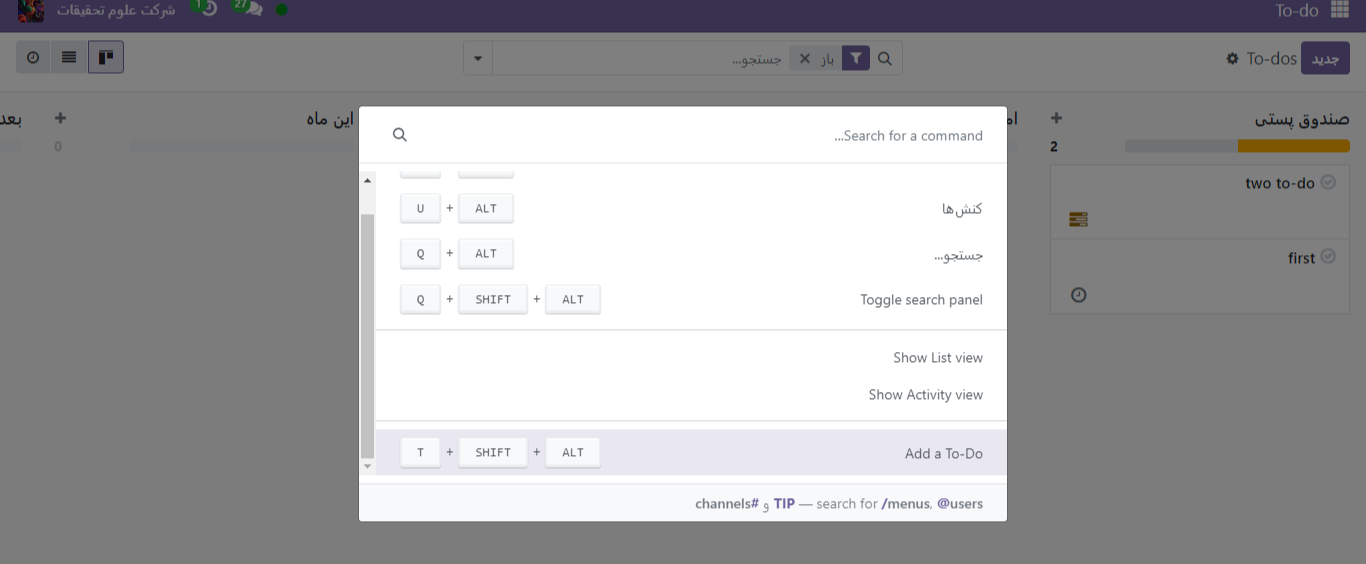
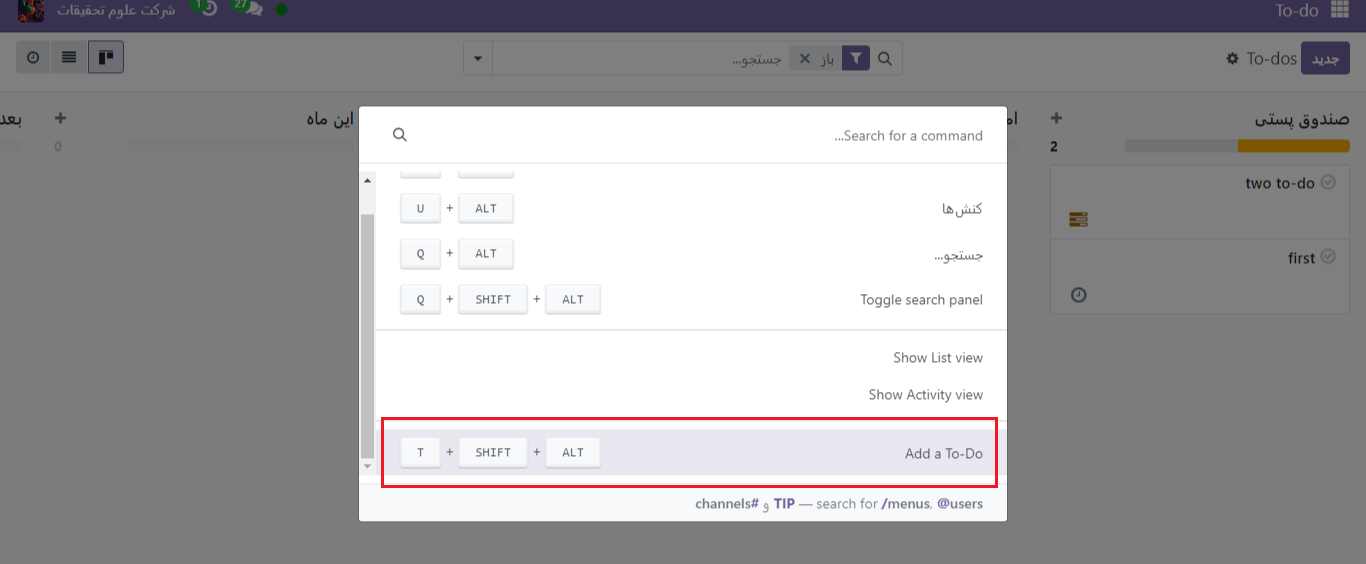
images of to do

Changed region(s): [[0.2767, 0.844, 0.7379, 0.8741], [0.2767, 0.7234, 0.7379, 0.7535]]

diff --git a/content/applications/productivity/to-do/to-do.rst b/content/applications/productivity/to-do/to-do.rst
@@ -29,9 +29,13 @@
     :alt: وبسایت
     :align: center
 
+.. image:: ./img/Todo3.png
+    :alt: وبسایت
+    :align: center
+
 همچنین با علامت ساعت و انتخاب add یادداشت(To-do)  میتوان این مراحل را انجام داد.
 
-.. image:: ./img/Todo3.png
+.. image:: ./img/Todo7-1.png
     :alt: وبسایت
     :align: center
 
